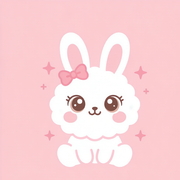
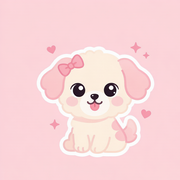
改回小狗奶牛，保留可爱小狗图标和自动更新修复

Changed region(s): [[0.1944, 0.1667, 0.8611, 0.9444], [0.25, 0.25, 0.3056, 0.3056], [0.8056, 0.2778, 0.8333, 0.3333]]

diff --git a/index.html b/index.html
@@ -5,12 +5,12 @@
 <meta name="viewport" content="width=device-width,initial-scale=1.0,maximum-scale=5.0,user-scalable=no,viewport-fit=cover">
 <meta name="apple-mobile-web-app-capable" content="yes">
 <meta name="apple-mobile-web-app-status-bar-style" content="default">
-<meta name="apple-mobile-web-app-title" content="小雪学习">
+<meta name="apple-mobile-web-app-title" content="宠物奶牛">
 <link rel="manifest" href="manifest.json?v=6">
 <link rel="apple-touch-icon" href="apple-touch-icon.png?v=6">
 <link rel="icon" type="image/png" sizes="192x192" href="icon-192.png?v=6">
 <link rel="icon" type="image/png" sizes="512x512" href="icon-512.png?v=6">
-<title>小雪·学习乐园</title>
+<title>宠物奶牛·学习乐园</title>
 <style>
 :root{
 --pink:#FF8FAB;--pink-l:#FFC5D9;--pink-d:#E57393;--pink-dd:#C24D6E;
@@ -324,12 +324,12 @@ body.testing-mode{overflow:hidden}
 <div class="app">
 <div class="mob-head">
 <button class="ham" onclick="toggleNav()">☰</button>
-<div class="mob-brand"><div class="logo">🐰</div><span class="brand-t">小雪学习乐园</span></div>
+<div class="mob-brand"><div class="logo">🐶</div><span class="brand-t">宠物奶牛·学习乐园</span></div>
 <div class="mob-pts">☀ <span id="mPts">0</span></div>
 </div>
 <div class="overlay" id="ov" onclick="closeNav()"></div>
 <aside class="nav" id="nav">
-<div class="nav-head"><div class="logo">🐰</div><div class="brand"><span class="brand-t">宠物小雪·学习乐园</span><span class="brand-s">二升三暑假工作台</span></div></div>
+<div class="nav-head"><div class="logo">🐶</div><div class="brand"><span class="brand-t">宠物奶牛·学习乐园</span><span class="brand-s">二升三暑假工作台</span></div></div>
 <nav class="nav-menu" id="nm">
 <div class="nav-item on" data-p="plan" onclick="go('plan')"><span class="nav-ico">📋</span><span>今日计划</span></div>
 <div class="nav-item" data-p="cn" onclick="go('cn')"><span class="nav-ico">📝</span><span>语文</span></div>
@@ -337,11 +337,11 @@ body.testing-mode{overflow:hidden}
 <div class="nav-item" data-p="eng" onclick="go('eng')"><span class="nav-ico">🔤</span><span>英语</span></div>
 <div class="nav-item" data-p="sport" onclick="go('sport')"><span class="nav-ico">🏃</span><span>运动</span></div>
 <div class="nav-item" data-p="game" onclick="go('game')"><span class="nav-ico">🎮</span><span>学习闯关</span></div>
-<div class="nav-item" data-p="pet" onclick="go('pet')"><span class="nav-ico">🐰</span><span>小兔子</span></div>
+<div class="nav-item" data-p="pet" onclick="go('pet')"><span class="nav-ico">🐾</span><span>宠物狗</span></div>
 <div class="nav-item" data-p="shop" onclick="go('shop')"><span class="nav-ico">🛒</span><span>积分商城</span></div>
 </nav>
 <div class="nav-foot">
-<div class="pet-mini"><span class="pet-emoji" id="pmEmoji">🐰</span><div class="pet-info"><div class="pet-name" id="pmName">小雪</div><div class="pet-bar"><div class="pet-bar-fill" id="pmBar" style="width:80%"></div></div></div></div>
+<div class="pet-mini"><span class="pet-emoji" id="pmEmoji">🐶</span><div class="pet-info"><div class="pet-name" id="pmName">奶牛</div><div class="pet-bar"><div class="pet-bar-fill" id="pmBar" style="width:80%"></div></div></div></div>
 </div>
 </aside>
 <main class="main"><div class="content" id="ct"></div></main>
@@ -486,7 +486,7 @@ cnPoemIdx:0,cnReadMin:0,
 mathLesson:null,mathQuizDone:{},mathErrBook:[],
 engWordDone:{},engErrBook:[],
 poems:{},
-pet:{name:'小雪',emoji:'🐰',hp:80,full:70,happy:60,clean:50},
+pet:{name:'奶牛',emoji:'🐶',hp:80,full:70,happy:60,clean:50},
 petOwned:[],
 petAnim:'',petSpeech:'',petAnimEmoji:'',petAnimTime:0,
 records:{},
@@ -498,8 +498,8 @@ function load(){try{S=JSON.parse(localStorage.getItem(KEY))||defS()}catch(e){S=d
 if(S.reset!==today()){Object.keys(S.ck).forEach(k=>S.ck[k]=false);S.reset=today();S.cnPoemIdx=0;S.cnReadMin=0}
 // 确保新字段
 if(!S.customTasks)S.customTasks=[];if(!S.mathErrBook)S.mathErrBook=[];if(!S.engErrBook)S.engErrBook=[];
-if(!S.pet)S.pet=defS().pet;if(S.pet.name==='小花'||S.pet.name==='奶牛')S.pet.name='小雪';
-if(S.pet.emoji==='🐶')S.pet.emoji='🐰';if(!S.petOwned)S.petOwned=[];if(!S.mathQuizDone)S.mathQuizDone={};if(!S.engWordDone)S.engWordDone={};if(!S.petAnim)S.petAnim='';if(!S.petSpeech)S.petSpeech='';if(!S.petAnimEmoji)S.petAnimEmoji='';if(!S.petAnimTime)S.petAnimTime=0;
+if(!S.pet)S.pet=defS().pet;if(S.pet.name==='小花')S.pet.name='奶牛';
+if(S.pet.emoji==='🐰')S.pet.emoji='🐶';if(!S.petOwned)S.petOwned=[];if(!S.mathQuizDone)S.mathQuizDone={};if(!S.engWordDone)S.engWordDone={};if(!S.petAnim)S.petAnim='';if(!S.petSpeech)S.petSpeech='';if(!S.petAnimEmoji)S.petAnimEmoji='';if(!S.petAnimTime)S.petAnimTime=0;
 // 如果动画状态超过3秒，自动清除过期动画
 if(S.petAnimTime&&Date.now()-S.petAnimTime>3000){S.petAnim='';S.petSpeech='';S.petAnimEmoji='';S.petAnimTime=0}
 // 兼容通关游戏进度
@@ -675,12 +675,12 @@ save();toast('错题已清除！','ok');go('eng')
 /* 宠物 */
 /* 宠物动画映射：每种动作对应不同的emoji、动画类名和语音 */
 const PET_ANIMS={
-feed:{emoji:'🥕',anim:'pet-bounce',speech:'嗯嘛~好吃！胡萝卜甜甜的~再给我一根嘛~'},
-water:{emoji:'💧',anim:'pet-wiggle',speech:'咕噜咕噜~水好清凉！耳朵都清爽啦~'},
-walk:{emoji:'🌸',anim:'pet-run',speech:'蹦蹦跳！外面花好香呀~小蝴蝶等等我~'},
-play:{emoji:'🎀',anim:'pet-jump',speech:'耶！玩蝴蝶结~接住啦~蹦蹦跳~'},
-bath:{emoji:'🫧',anim:'pet-shake',speech:'哗啦啦~洗得香喷喷！毛毛白白的最好看啦~'},
-sleep:{emoji:'🌙',anim:'pet-sleep',speech:'呼噜呼噜~好困呀，让我打个盹儿~zzZ'}
+feed:{emoji:'🤤',anim:'pet-bounce',speech:'嗷呜~好吃的！再来一点嘛~'},
+water:{emoji:'😋',anim:'pet-wiggle',speech:'咕噜咕噜~水真清凉！'},
+walk:{emoji:'🏃',anim:'pet-run',speech:'汪汪！出去溜溜真开心！外面的世界好大呀~'},
+play:{emoji:'😆',anim:'pet-jump',speech:'耶！玩球球！接住啦~汪汪汪！'},
+bath:{emoji:'🛁',anim:'pet-shake',speech:'哗啦啦~洗得真干净！香喷喷的奶牛~'},
+sleep:{emoji:'😴',anim:'pet-sleep',speech:'呼噜呼噜~好困呀，让我打个盹儿~zzZ'}
 };
 function petAction(action){
 const p=S.pet;let cost=0;
@@ -1501,7 +1501,7 @@ const animClass=isAnim?S.petAnim:'';
 const speechText=S.petSpeech||'';
 const speechBubble=speechText?`<div class="pet-bubble">${speechText}</div>`:'';
 return`
-<div class="pg-hd"><div class="pg-t">🐰 我的小兔子</div><div class="pg-s">完成打卡赚积分，照顾你的小兔兔</div></div>
+<div class="pg-hd"><div class="pg-t">🐾 我的宠物狗</div><div class="pg-s">完成打卡赚积分，照顾你的小狗</div></div>
 <div class="pet-area">
 <div class="pet-bubble-wrap">${speechBubble}</div>
 <div class="pet-big ${animClass}">${showEmoji}</div>
@@ -1513,10 +1513,10 @@ return`
 <div class="ps-item"><div class="ps-l">🧼 清洁</div><div class="ps-v" style="color:var(--blue-c)">${p.clean}%</div><div class="ps-bar"><div class="ps-fill clean" style="width:${p.clean}%"></div></div></div>
 </div>
 <div class="pet-actions">
-<button class="pa-btn gn" onclick="petAction('walk')">🌸 溜兔 (2☀)</button>
-<button class="pa-btn pk" onclick="petAction('feed')">🥕 喂食 (5☀)</button>
+<button class="pa-btn gn" onclick="petAction('walk')">🚶 遛狗 (2☀)</button>
+<button class="pa-btn pk" onclick="petAction('feed')">🥩 喂食 (5☀)</button>
 <button class="pa-btn sun" onclick="petAction('water')">💧 喝水 (3☀)</button>
-<button class="pa-btn lv" onclick="petAction('play')">🎀 玩耍 (3☀)</button>
+<button class="pa-btn lv" onclick="petAction('play')">🧸 玩耍 (3☀)</button>
 <button class="pa-btn bl" onclick="petAction('bath')">🛁 洗澡 (6☀)</button>
 <button class="pa-btn or" onclick="petAction('sleep')">💤 睡觉 (1☀)</button>
 </div>
@@ -1573,7 +1573,7 @@ const undone=getUndoneItems();
 if(undone.length===0)return; // 全完成了不需要提醒
 localStorage.setItem(todayKey,'1');
 const timeLabel=hour===11?'上午':hour===16?'下午':'晚上';
-const title=`⏰ ${timeLabel}提醒 · 小雪学习乐园`;
+const title=`⏰ ${timeLabel}提醒 · 宠物奶牛学习乐园`;
 const body=`你还有 ${undone.length} 项任务未完成：${undone.slice(0,5).join('、')}${undone.length>5?'等...':''}`;
 
 /* 优先使用浏览器通知 */
